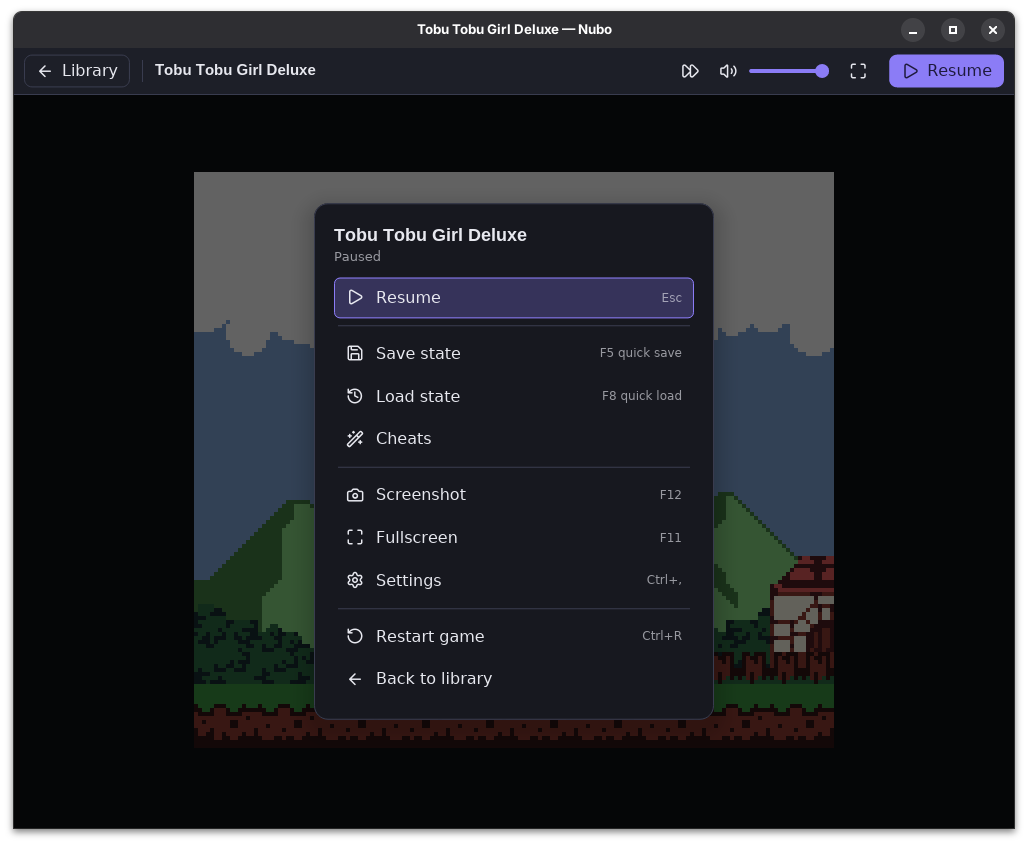
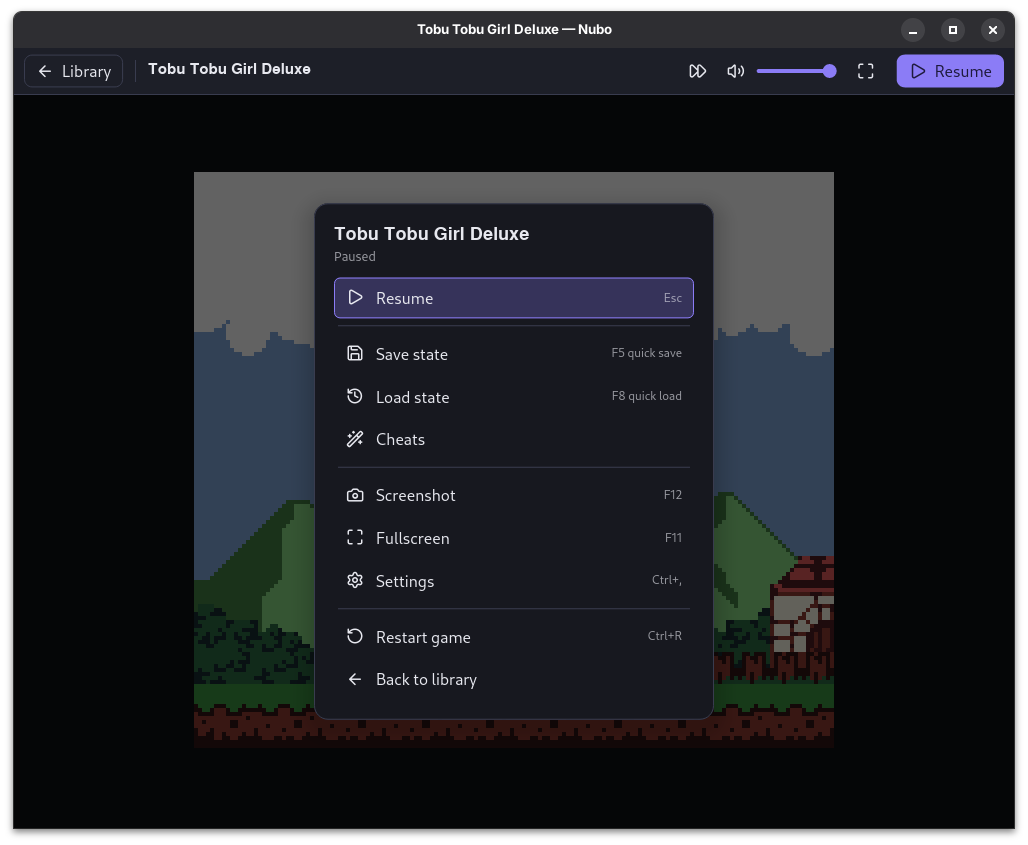
Use the desktop's own font on Linux, and redraw the screenshots
Iced's text library ignores the desktop when it picks the sans-serif font:
it takes the first installed font of a list of its own (Open Sans, Noto
Sans, DejaVu Sans and so on). On Linux the app now asks the desktop portal
for the font the player picked for their desktop (GNOME's interface font,
or KDE's general font) and makes it the sans-serif font Iced draws in,
when it is installed. Flatpak apps can ask the portal too.

The screenshots' GNOME session now starts the desktop portal with GNOME's
default settings, so the pictures show GNOME's Cantarell, as in their
title bars, instead of DejaVu Sans and Liberation Sans Bold. The
screenshots skill lists the portal's packages.

Claude-Session: https://claude.ai/code/session_01U9eZdZM8LhXr2LWb9FaRfi

diff --git a/xtask/src/screenshots/gnome.rs b/xtask/src/screenshots/gnome.rs
@@ -22,7 +22,13 @@
 //! own apps and newer versions of GNOME draw libadwaita's: the window's
 //! color with round buttons. A stylesheet in the session's GTK settings
 //! folder ([`TITLE_BAR_STYLE`]) gives the border libadwaita's look, so the
-//! pictures look like GNOME on a desktop today. Before each picture
+//! pictures look like GNOME on a desktop today. The app draws its text in
+//! the font the desktop names through the desktop portal, which D-Bus
+//! starts when the app first asks: the session hands the portal its
+//! display and folders, as GNOME's session manager does on a desktop, and
+//! a `gnome-portals.conf` of its own ([`PORTALS`]) has GNOME's part of the
+//! portal answer. GNOME's settings are their defaults, so the font is
+//! GNOME's own, Cantarell, as in the title bar. Before each picture
 //! the X pointer goes to the screen's bottom-right corner (with xdotool),
 //! so it hovers over nothing in the window: an X server starts with its
 //! pointer in the middle of the screen. Each picture is then either taken
@@ -50,6 +56,21 @@ const TOOLS: [(&str, &str); 6] = [
     ("dbus-run-session", "dbus-daemon"),
     ("dbus-daemon", "dbus-daemon"),
 ];
+/// The D-Bus services the session needs, as files in D-Bus's folder of
+/// services, with the Ubuntu package of each: the desktop portal and
+/// GNOME's part of it, which name GNOME's font to the app.
+const SERVICES: [(&str, &str); 2] = [
+    (
+        "org.freedesktop.portal.Desktop.service",
+        "xdg-desktop-portal",
+    ),
+    (
+        "org.freedesktop.impl.portal.desktop.gnome.service",
+        "xdg-desktop-portal-gnome",
+    ),
+];
+/// Where D-Bus looks for the [`SERVICES`] it starts on request.
+const SERVICES_FOLDER: &str = "/usr/share/dbus-1/services";
 /// What else GNOME's border needs to look as it does on a desktop: the
 /// title's font and the icons of its buttons.
 const LOOKS: [&str; 2] = ["fonts-cantarell", "adwaita-icon-theme"];
@@ -82,6 +103,11 @@ windowcontrols button > image {
   background-color: alpha(currentColor, 0.1);
 }
 ";
+/// Which programs answer for the desktop portal in GNOME, as GNOME's own
+/// `gnome-portals.conf` says, which Ubuntu 24.04 doesn't install: GNOME's,
+/// then GTK's. The portal reads it from `xdg-desktop-portal` in
+/// `XDG_CONFIG_HOME`.
+const PORTALS: &str = "[preferred]\ndefault=gnome;gtk;\n";
 /// How long GNOME Shell may take to start.
 const SHELL_START: Duration = Duration::from_secs(60);
 /// How long the app may take to show a scene and take its picture, which
@@ -149,6 +175,12 @@ pub fn check_tools() -> Result {
         .iter()
         .filter(|(program, _)| !on_path(program))
         .map(|&(_, package)| package)
+        .chain(
+            SERVICES
+                .iter()
+                .filter(|(service, _)| !Path::new(SERVICES_FOLDER).join(service).exists())
+                .map(|&(_, package)| package),
+        )
         .collect();
     if is_root() && !on_path("unshare") {
         missing.push("util-linux");
@@ -302,6 +334,13 @@ impl Session {
         fs::write(&stylesheet, title_bar_style(dark))
             .map_err(|error| format!("couldn't write {}: {error}", stylesheet.display()))?;
 
+        let portals = folder.join("config").join("xdg-desktop-portal");
+        fs::create_dir_all(&portals)
+            .map_err(|error| format!("couldn't create {}: {error}", portals.display()))?;
+        let portals_file = portals.join("gnome-portals.conf");
+        fs::write(&portals_file, PORTALS)
+            .map_err(|error| format!("couldn't write {}: {error}", portals_file.display()))?;
+
         let log = folder.join("gnome-shell.log");
         let output = File::create(&log)
             .map_err(|error| format!("couldn't create {}: {error}", log.display()))?;
@@ -376,7 +415,43 @@ impl Session {
             }
             thread::sleep(Duration::from_millis(250));
         }
+        session.share_with_portal()?;
         Ok(session)
+    }
+
+    /// Gives the desktop portal, which D-Bus starts when the app first asks
+    /// it for the desktop's font, this session's display, folders and
+    /// desktop, as GNOME's session manager does on a desktop, and checks
+    /// that it answers.
+    fn share_with_portal(&self) -> Result {
+        let variables: Vec<String> = self
+            .environment
+            .iter()
+            .map(|(name, value)| (name.as_str(), value.as_str()))
+            .chain([("XDG_CURRENT_DESKTOP", "GNOME")])
+            .map(|(name, value)| format!("'{name}': '{}'", value.replace('\'', "\\'")))
+            .collect();
+        gdbus(&[
+            "--dest",
+            "org.freedesktop.DBus",
+            "--object-path",
+            "/org/freedesktop/DBus",
+            "--method",
+            "org.freedesktop.DBus.UpdateActivationEnvironment",
+            &format!("{{{}}}", variables.join(", ")),
+        ])?;
+        gdbus(&[
+            "--dest",
+            "org.freedesktop.portal.Desktop",
+            "--object-path",
+            "/org/freedesktop/portal/desktop",
+            "--method",
+            "org.freedesktop.portal.Settings.Read",
+            "org.gnome.desktop.interface",
+            "font-name",
+        ])
+        .map(|_| ())
+        .map_err(|error| format!("the desktop portal didn't name GNOME's font: {error}"))
     }
 
     /// Runs xdotool on the session's X display, returning whether it

diff --git a/crates/nubo-frontend/src/desktop_font.rs b/crates/nubo-frontend/src/desktop_font.rs
@@ -1,0 +1,93 @@
+//! The font the player picked for their desktop, so an app can draw its text
+//! in it. Only Linux has a way to ask: the desktop portal (the service that
+//! lets apps, Flatpak ones too, read the desktop's settings) tells GNOME's
+//! interface font or KDE's general font. Elsewhere, and when no portal
+//! answers, the desktop names no font and the app keeps its toolkit's.
+
+/// The names the desktop's font may have as a font family, the likeliest
+/// first, or none when the desktop names no font. The app takes the first
+/// one that is installed (see `family_names`).
+pub fn families() -> Vec<String> {
+    #[cfg(target_os = "linux")]
+    {
+        portal::font()
+            .map(|font| family_names(&font))
+            .unwrap_or_default()
+    }
+    #[cfg(not(target_os = "linux"))]
+    {
+        Vec::new()
+    }
+}
+
+/// The family names a desktop's font setting may mean, the longest first.
+/// GNOME names a font with its style and size (`Noto Sans Medium 11`), and
+/// KDE with its size and other numbers after commas (`Noto Sans,10,-1,5`).
+/// The size goes, and what's left gives every name from the whole of it to
+/// its first word: `Noto Sans Medium`, `Noto Sans`, `Noto`.
+fn family_names(font: &str) -> Vec<String> {
+    let family = font.split(',').next().unwrap_or_default();
+    let mut words: Vec<&str> = family.split_whitespace().collect();
+    if words
+        .last()
+        .is_some_and(|word| word.trim_end_matches("px").parse::<f32>().is_ok())
+    {
+        words.pop();
+    }
+    (1..=words.len())
+        .rev()
+        .map(|count| words[..count].join(" "))
+        .collect()
+}
+
+/// Reading the font from the desktop portal over D-Bus.
+#[cfg(target_os = "linux")]
+mod portal {
+    use std::time::Duration;
+    use zbus::blocking::connection;
+    use zbus::zvariant::Value;
+
+    /// The settings that name the desktop's font, as a namespace and a key
+    /// of the portal's Settings interface: GNOME's, then KDE's.
+    const FONT_SETTINGS: [(&str, &str); 2] = [
+        ("org.gnome.desktop.interface", "font-name"),
+        ("org.kde.kdeglobals.General", "font"),
+    ];
+    /// How long the portal may take to answer, since the app waits for it
+    /// before it opens its window.
+    const TIMEOUT: Duration = Duration::from_secs(1);
+
+    /// The desktop's font setting as the portal gives it, or `None` when
+    /// there is no portal or it names no font.
+    pub fn font() -> Option<String> {
+        let connection = connection::Builder::session()
+            .ok()?
+            .method_timeout(TIMEOUT)
+            .build()
+            .ok()?;
+        FONT_SETTINGS.iter().find_map(|(namespace, key)| {
+            let reply = connection
+                .call_method(
+                    Some("org.freedesktop.portal.Desktop"),
+                    "/org/freedesktop/portal/desktop",
+                    Some("org.freedesktop.portal.Settings"),
+                    "Read",
+                    &(namespace, key),
+                )
+                .ok()?;
+            let body = reply.body();
+            let mut value: Value<'_> = body.deserialize().ok()?;
+            // `Read` wraps the setting in a second variant; the newer
+            // `ReadOne` doesn't, but older portals lack it.
+            while let Value::Value(inner) = value {
+                value = *inner;
+            }
+            String::try_from(&value)
+                .ok()
+                .filter(|font| !font.is_empty())
+        })
+    }
+}
+
+#[cfg(test)]
+mod tests;

diff --git a/frontends/nubo/src/ui/theme.rs b/frontends/nubo/src/ui/theme.rs
@@ -9,9 +9,10 @@ use iced::widget::{button, container, text, text_input};
 use iced::{Background, Border, Color, Font, Shadow, Theme, Vector};
 use std::sync::LazyLock;
 
-/// The font for body text. The desktop build uses the system's sans-serif
-/// font. The browser has no system fonts, so the browser build bundles Fira
-/// Sans and has to ask for it by name.
+/// The font for body text. The desktop build uses the sans-serif font,
+/// which on Linux `use_desktop_font` makes the desktop's own. The browser
+/// has no system fonts, so the browser build bundles Fira Sans and has to
+/// ask for it by name.
 pub const BODY_FONT: Font = if cfg!(target_arch = "wasm32") {
     Font::with_name("Fira Sans")
 } else {
@@ -28,6 +29,34 @@ pub const HEADING_FONT: Font = if cfg!(target_arch = "wasm32") {
         ..Font::DEFAULT
     }
 };
+
+/// Makes the font the player picked for their desktop the sans-serif font
+/// that [`BODY_FONT`] and [`HEADING_FONT`] draw in, when the desktop names
+/// one (on Linux, see `nubo_frontend::desktop_font`) and it is installed.
+/// Without it, Iced's text library ignores the desktop and takes the first
+/// font of a list of its own (Open Sans, Noto Sans, DejaVu Sans and so on).
+/// It runs before the app draws any text.
+#[cfg(not(target_arch = "wasm32"))]
+pub fn use_desktop_font() {
+    let families = nubo_frontend::desktop_font::families();
+    if families.is_empty() {
+        return;
+    }
+    let Ok(mut font_system) = iced::advanced::graphics::text::font_system().write() else {
+        return;
+    };
+    let database = font_system.raw().db_mut();
+    let installed = families.iter().find_map(|family| {
+        database
+            .faces()
+            .flat_map(|face| &face.families)
+            .find(|(name, _)| name.eq_ignore_ascii_case(family))
+            .map(|(name, _)| name.clone())
+    });
+    if let Some(family) = installed {
+        database.set_sans_serif_family(family);
+    }
+}
 
 const CORNER_RADIUS: f32 = 8.0;
 const PANEL_CORNER_RADIUS: f32 = 14.0;

diff --git a/crates/nubo-frontend/src/lib.rs b/crates/nubo-frontend/src/lib.rs
@@ -7,7 +7,8 @@
 //!   games ([`palettes`]), the Super Game Boy menu's choices ([`sgb_menu`])
 //!   and the rule that picks the hardware a game starts on ([`model`]);
 //! - neutral building blocks: clocks that work in the browser too ([`time`]),
-//!   opening web pages and folders ([`links`]), the looks of the Game Boy's
+//!   opening web pages and folders ([`links`]), the font the player picked
+//!   for their desktop (`desktop_font`), the looks of the Game Boy's
 //!   own screen ([`lcd`]), whether a newer Nubo is out ([`updates`]),
 //!   pictures as plain RGBA pixels ([`picture`]), slow work on a thread of
 //!   its own ([`background`]) and problems for the app to show
@@ -51,6 +52,8 @@ pub mod background;
 pub mod battery;
 pub mod cheats;
 pub mod controls;
+#[cfg(feature = "desktop")]
+pub mod desktop_font;
 #[cfg(feature = "gamepads")]
 pub mod gamepads;
 pub mod lcd;

diff --git a/crates/nubo-frontend/src/desktop_font/tests.rs b/crates/nubo-frontend/src/desktop_font/tests.rs
@@ -1,0 +1,31 @@
+//! Tests for reading family names from the desktop's font settings.
+
+use super::*;
+
+#[test]
+fn gnome_names_drop_the_size_and_then_a_word_at_a_time() {
+    assert_eq!(family_names("Cantarell 11"), ["Cantarell"]);
+    assert_eq!(
+        family_names("Noto Sans Medium 10.5"),
+        ["Noto Sans Medium", "Noto Sans", "Noto"]
+    );
+    assert_eq!(
+        family_names("Adwaita Sans 11px"),
+        ["Adwaita Sans", "Adwaita"]
+    );
+    assert_eq!(family_names("Cantarell, Sans 11"), ["Cantarell"]);
+}
+
+#[test]
+fn kde_names_end_at_the_first_comma() {
+    assert_eq!(
+        family_names("Noto Sans,10,-1,5,50,0,0,0,0,0"),
+        ["Noto Sans", "Noto"]
+    );
+}
+
+#[test]
+fn an_empty_setting_names_nothing() {
+    assert!(family_names("").is_empty());
+    assert!(family_names("11").is_empty());
+}

diff --git a/xtask/src/screenshots.rs b/xtask/src/screenshots.rs
@@ -23,8 +23,8 @@
 //! screenshots differ, and leaves the new pictures and their differences in
 //! `target/screenshots/check/`.
 //!
-//! It runs on Linux only, with GNOME Shell, Xwayland, xdotool and D-Bus's
-//! tools installed (it prints the `apt` line when they aren't), as root in
+//! It runs on Linux only, with GNOME Shell, Xwayland, xdotool, D-Bus's
+//! tools and the desktop portal installed (it prints the `apt` line when they aren't), as root in
 //! a container such as a cloud session or as a user on a Linux desktop.
 
 use crate::{Result, cargo, run, target_dir, workspace_root};

diff --git a/frontends/nubo/src/main.rs b/frontends/nubo/src/main.rs
@@ -131,6 +131,8 @@ fn launch(
     window: iced::window::Settings,
     boot: impl Fn() -> (App, iced::Task<app::Message>) + 'static,
 ) -> iced::Result {
+    #[cfg(not(target_arch = "wasm32"))]
+    ui::theme::use_desktop_font();
     iced::application(boot, App::update, App::view)
         .title(App::title)
         .subscription(App::subscription)

diff --git a/frontends/nubo/AGENTS.md b/frontends/nubo/AGENTS.md
@@ -43,7 +43,7 @@ cargo run --release -p nubo -- capture <scene> --games <folder> --home <folder> 
 - `nubo-frontend`'s session paced by the screen's refreshes (`session/screen_refresh.rs`) replaces the emulator thread: on each frame tick the app calls `run_due_frames`, which emulates the whole frames due by the refresh its own `requestAnimationFrame` clock saw, and `session/pacing.rs` decides how many and keeps the audio queue steady by nudging the sample rate. Controllers are read once per frame (`gamepads::next_event`).
 - Settings, battery saves and cheats go to localStorage instead of files (`storage/local_storage.rs` in `nubo-frontend` names the keys), and save states, the library with its pictures and the games' files to IndexedDB (`storage/indexed_db.rs`), which `App::new` opens before it reads the library (`Message::StorageOpened`; until then the library page shows only its bar). The sound goes through cpal's WebAudio backend: the app turns on `nubo-frontend`'s `web` feature for wasm32. A write IndexedDB refuses, such as with a full disk, becomes a toast (`App::show_notices`). Updates and showing folders are desktop only; each module that differs has an `AVAILABLE` (or similar) flag.
 - **The browser's library keeps the games themselves** (`nubo_frontend::library::KEEPS_GAMES`), since a page has no folders: "Add games" picks several files (`rom_picker::pick_many`, `LibraryMessage::AddGames`), every game picked with "Open game" joins the library, replacing one kept under the same file name (`App::keep_game`; games started from the library aren't kept again), a game's menu offers "Remove from library…" (`DialogKind::RemoveGame`, which deletes its file and pictures but keeps its saves), the settings' Library tab shows how many games it keeps and how much room they take instead of folders, and Start over's "Remove every game" deletes them all (so it counts as deleting, without Undo). Games start from their kept file (`nubo_frontend::rom::load`). Title screens are captured a few frames at a time, letting the page draw in between, and not while a game runs (`App::capture_title_screens`). The last game played that versions before kept in localStorage moves into the library once (`App::move_last_game`), and leaves localStorage only after its IndexedDB writes have committed (`nubo_frontend::storage::indexed_db::settled`); once the library keeps a file under its name (`Library::keeps_file_of`), or when it isn't a game, it is forgotten without being moved again. Screenshots are handed to the browser as downloads, and box art comes from the libretro collection's copy on GitHub, which lets pages read it.
-- Code both builds share takes `Instant`, `SystemTime` and `Duration` from `nubo_frontend::time`, which re-exports the `web-time` crate (std's panic on wasm32; `iced::time` is the same types, for the UI code), and text that sets a font uses `theme::BODY_FONT` or `theme::HEADING_FONT` (the system's sans-serif font on the desktop, and Fira Sans, which Iced bundles, in the browser): the browser has no system fonts, so `Font::DEFAULT` or another font of its own draws nothing there. Plain `text()` without `.font()` is fine, and so are the Lucide icons (`ui/icons.rs`), whose font the app loads itself.
+- Code both builds share takes `Instant`, `SystemTime` and `Duration` from `nubo_frontend::time`, which re-exports the `web-time` crate (std's panic on wasm32; `iced::time` is the same types, for the UI code), and text that sets a font uses `theme::BODY_FONT` or `theme::HEADING_FONT` (the sans-serif font on the desktop, which on Linux `theme::use_desktop_font` makes the font the player picked for their desktop, as the desktop portal names it, and Fira Sans, which Iced bundles, in the browser): the browser has no system fonts, so `Font::DEFAULT` or another font of its own draws nothing there. Plain `text()` without `.font()` is fine, and so are the Lucide icons (`ui/icons.rs`), whose font the app loads itself.
 - `deploy.yml` publishes the browser build to GitHub Pages on every push to main that passes CI.
 
 ## Packaging Files

diff --git a/xtask/AGENTS.md b/xtask/AGENTS.md
@@ -1,6 +1,6 @@
 # xtask
 
-Project tasks written in Rust, run as `cargo xtask <task>`. Each task's module docs explain it; `cargo xtask help` lists the tasks and `cargo xtask <task> --help` a task's options, read with clap (`Task` in `main.rs`, and the options' types in the tasks' modules). Only Rust is needed, except for the packaging tasks (their platform's tools), `compare-emulators` (git, a C/C++ compiler, make, RGBDS and CMake; Linux and macOS) and `screenshots` (GNOME Shell, Xwayland, xdotool and D-Bus's tools; Linux).
+Project tasks written in Rust, run as `cargo xtask <task>`. Each task's module docs explain it; `cargo xtask help` lists the tasks and `cargo xtask <task> --help` a task's options, read with clap (`Task` in `main.rs`, and the options' types in the tasks' modules). Only Rust is needed, except for the packaging tasks (their platform's tools), `compare-emulators` (git, a C/C++ compiler, make, RGBDS and CMake; Linux and macOS) and `screenshots` (GNOME Shell, Xwayland, xdotool, D-Bus's tools and the desktop portal; Linux).
 
 ```bash
 # Web version (the Iced app built for the browser)
@@ -30,7 +30,7 @@ cargo xtask review-units next --state rotation.json --date <YYYY-MM-DD> --commit
 cargo xtask metrics append metrics.jsonl night.json   # Add a night's measurements to the log
 cargo xtask metrics report metrics.jsonl   # Write the Nightly metrics wiki page from the log
 
-# Screenshots (docs/SCREENSHOTS_PLAN.md; Linux, with GNOME Shell, Xwayland, xdotool and D-Bus's tools)
+# Screenshots (docs/SCREENSHOTS_PLAN.md; Linux, with GNOME Shell, Xwayland, xdotool, D-Bus's tools and the desktop portal)
 cargo xtask screenshots [filter]  # Make the screenshots images/screenshots.toml lists from their scenes in a headless GNOME Shell
 cargo xtask screenshots --check   # Write nothing: say which differ, with the new pictures and their differences in target/screenshots/check/
 cargo xtask scene explore <game | scene> --script "wait 5s; press start; mark" [--every 2s] [--model sgb2]   # Candidate scenes and a contact sheet in target/scenes/

diff --git a/README.md b/README.md
@@ -221,7 +221,7 @@ The work on Nubo's speed drew on ideas from other emulators. [Clean-room reports
 <details>
 <summary><strong>The fonts, icons, box art and the games in the screenshots</strong></summary>
 
-- [Fira Sans](https://github.com/mozilla/Fira): the web version's font, bundled by Iced (SIL Open Font License; see [NOTICE](NOTICE)). The desktop app uses the system's own font.
+- [Fira Sans](https://github.com/mozilla/Fira): the web version's font, bundled by Iced (SIL Open Font License; see [NOTICE](NOTICE)). The desktop app uses the system's own font; on Linux, the one picked for the desktop.
 - The [libretro thumbnail collection](https://github.com/libretro-thumbnails/libretro-thumbnails) and the No-Intro game lists of the [libretro database](https://github.com/libretro/libretro-database): the box art the desktop app can download.
 - [Lucide](https://lucide.dev): the app's icons, on the desktop and in the browser (ISC License, see [NOTICE](NOTICE)).
 - [libretro.h](https://github.com/libretro/libretro-common) by the RetroArch team: the libretro API the RetroArch core's bindings are written from (MIT License, see [NOTICE](NOTICE)). [SameBoy's libretro core](https://github.com/LIJI32/SameBoy) and [rcheevos](https://github.com/RetroAchievements/rcheevos) showed how a Game Boy core lays out its memory for RetroAchievements.

diff --git a/.claude/skills/screenshots/SKILL.md b/.claude/skills/screenshots/SKILL.md
@@ -10,7 +10,7 @@ Every screenshot in the README and the Flathub listing is made from a scene: a r
 Install what the task needs first, once per machine (it prints this line when something is missing; leave out `sudo` as root):
 
 ```bash
-sudo apt-get install --no-install-recommends gnome-shell xwayland xdotool dbus-daemon libglib2.0-bin fonts-cantarell adwaita-icon-theme
+sudo apt-get install --no-install-recommends gnome-shell xwayland xdotool dbus-daemon libglib2.0-bin xdg-desktop-portal xdg-desktop-portal-gnome fonts-cantarell adwaita-icon-theme
 ```
 
 ## Regenerate the screenshots and update the docs
